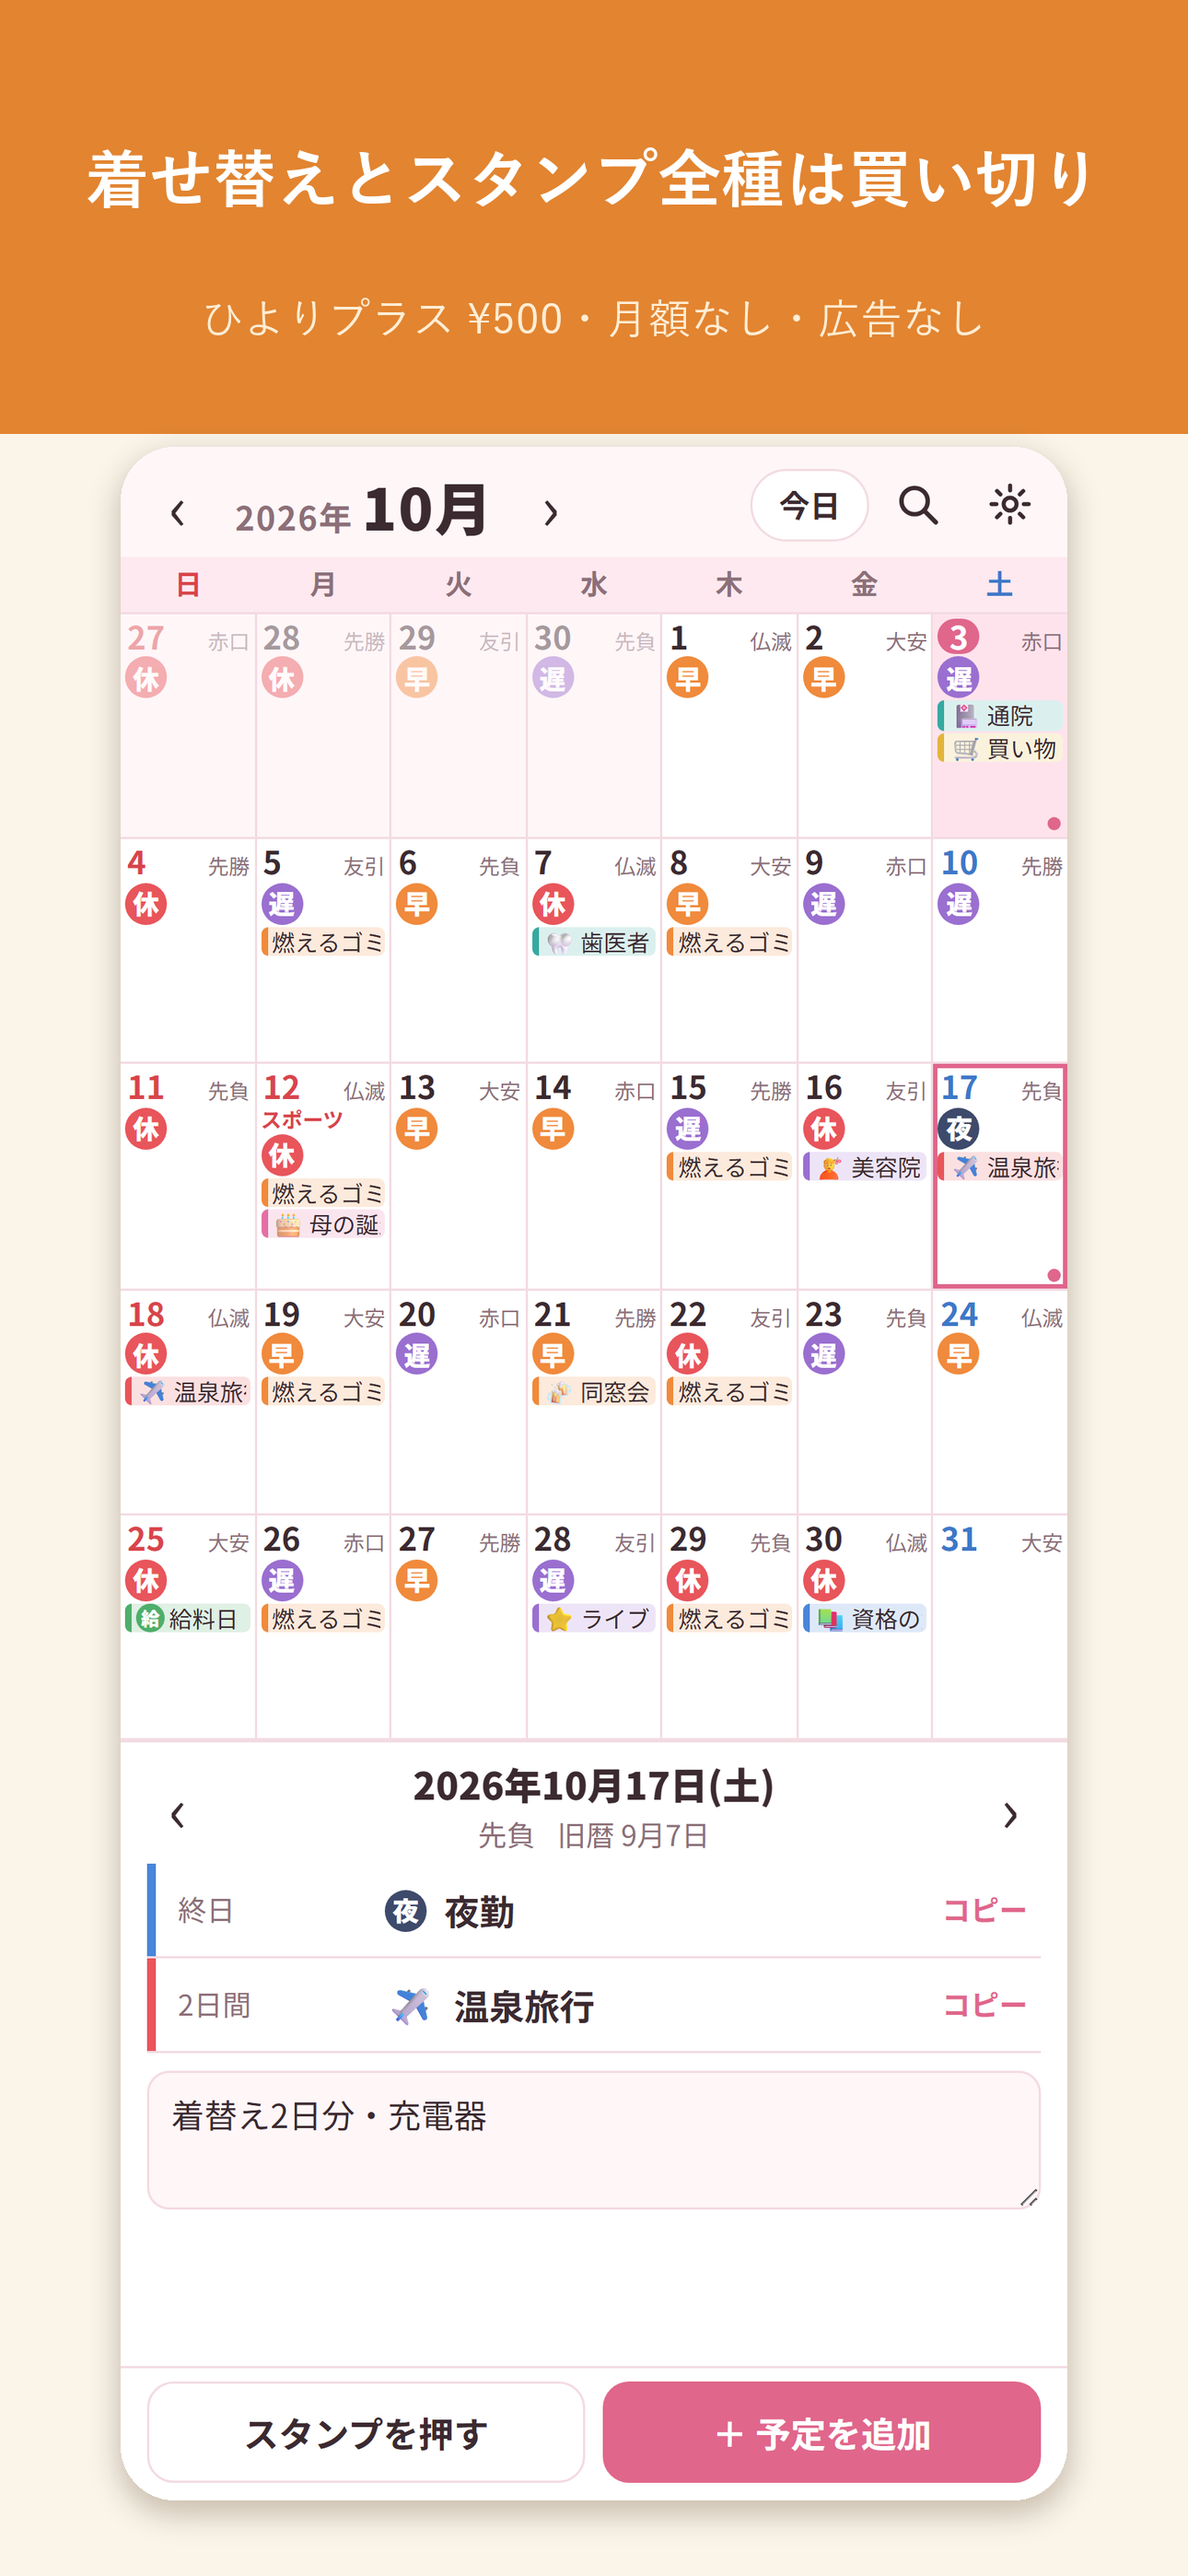
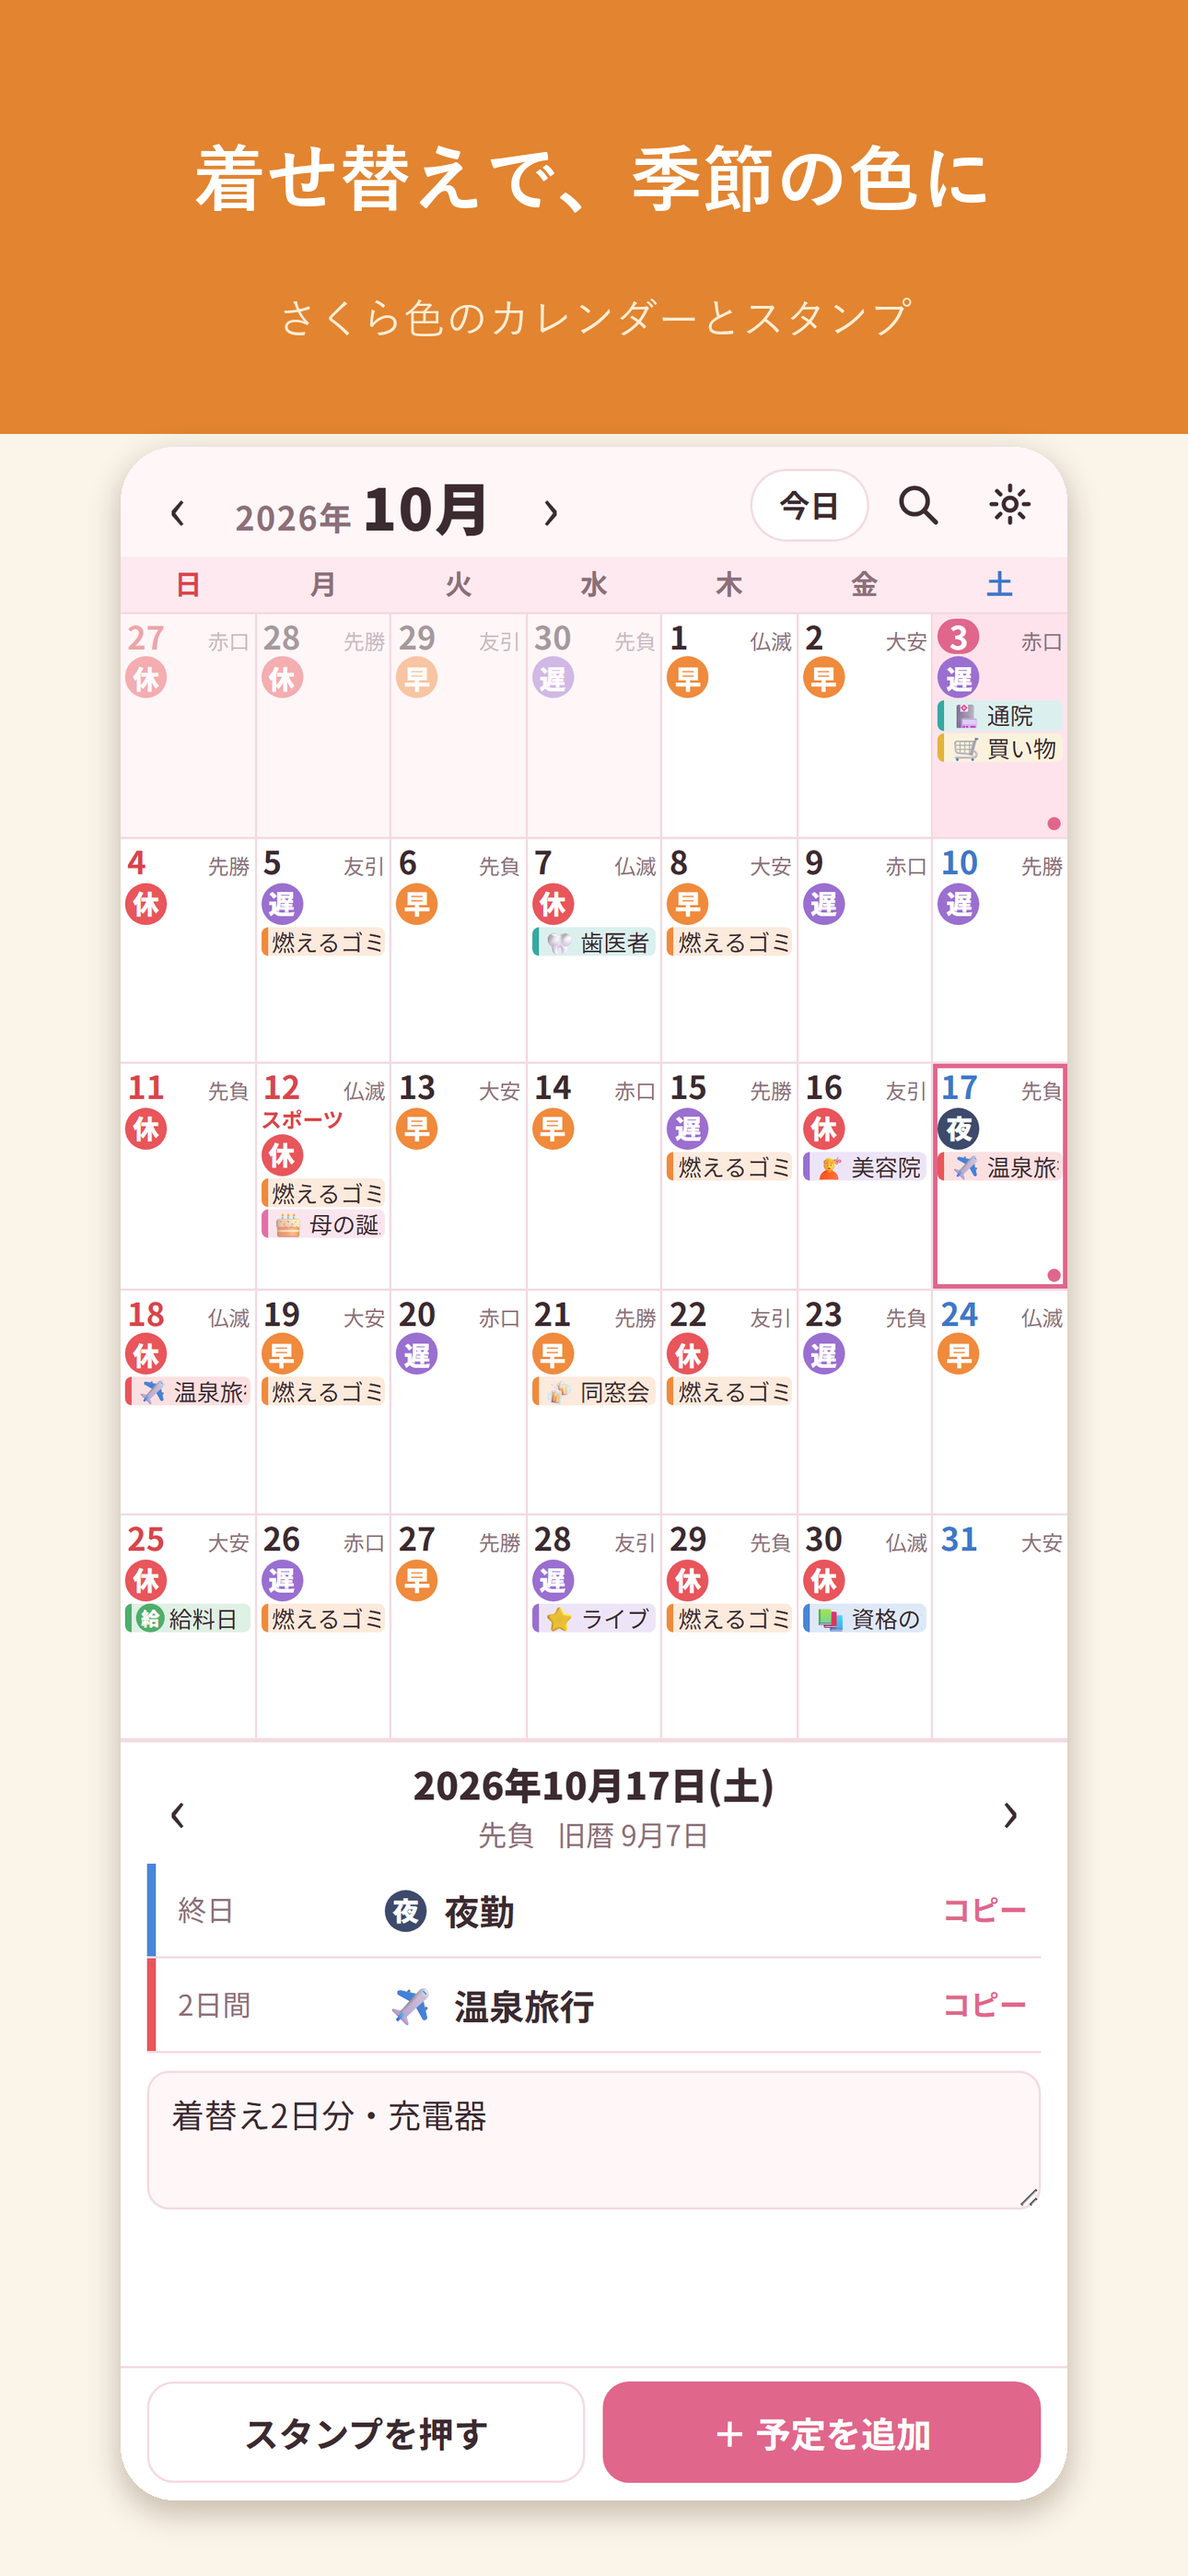
App Store の写真から値段と「無料」を外す(2.3.7 で却下されたため)

Changed region(s): [[0.062, 0.0311, 0.9302, 0.1245]]

diff --git a/scripts/store_shots.py b/scripts/store_shots.py
@@ -91,7 +91,8 @@ CAPS = [
     ('2_history', 'いつもの予定は、履歴からワンタップ', '時刻・色・スタンプまでそのまま入る'),
     ('3_stamps', 'スタンプを選んで、日付をぺたぺた', 'シフトもゴミの日も、押すだけ'),
     ('4_search', '前の通院はいつだった?', '過去の予定もメモも、すぐ探せる'),
-    ('5_sakura', '着せ替えとスタンプ全種は買い切り', 'ひよりプラス ¥500・月額なし・広告なし'),
+    # 写真に値段・「無料」を書かない(App Store 2.3.7。まとめ版ニガテ帳が 2026-10-07 にこれで却下)
+    ('5_sakura', '着せ替えで、季節の色に', 'さくら色のカレンダーとスタンプ'),
 ]
 BG = (226, 132, 48)
 BG2 = (251, 244, 232)
